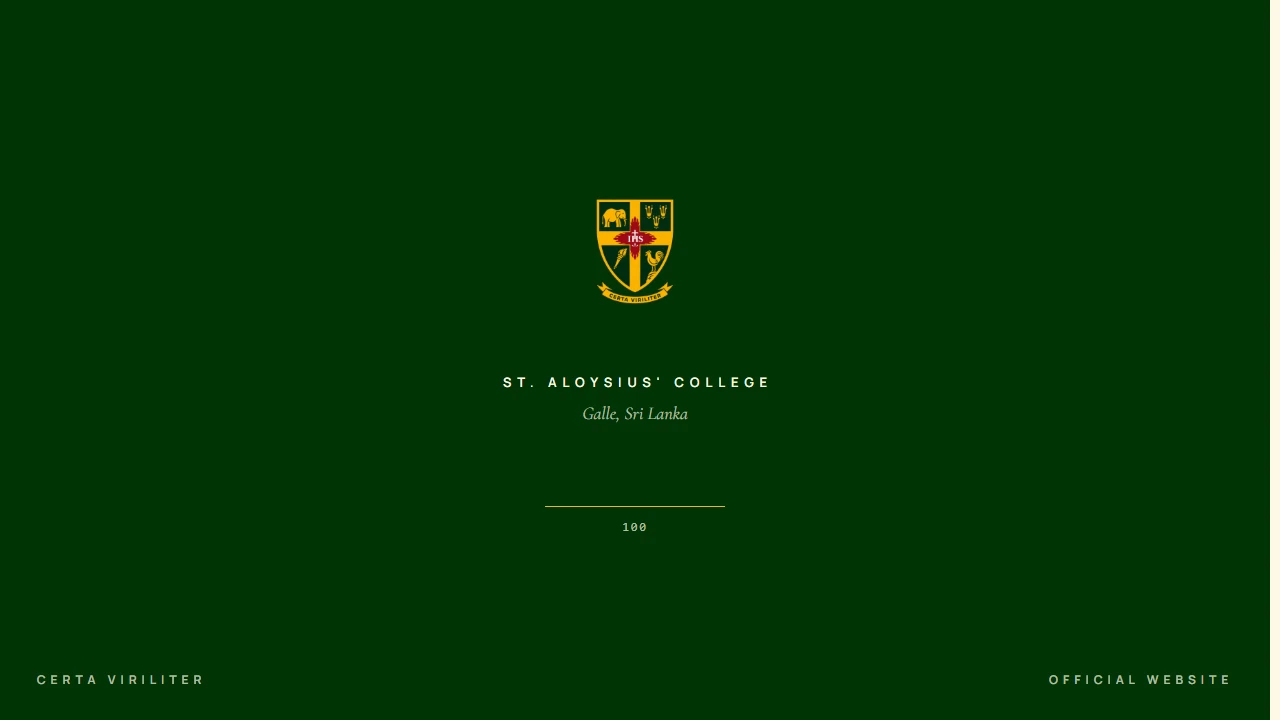
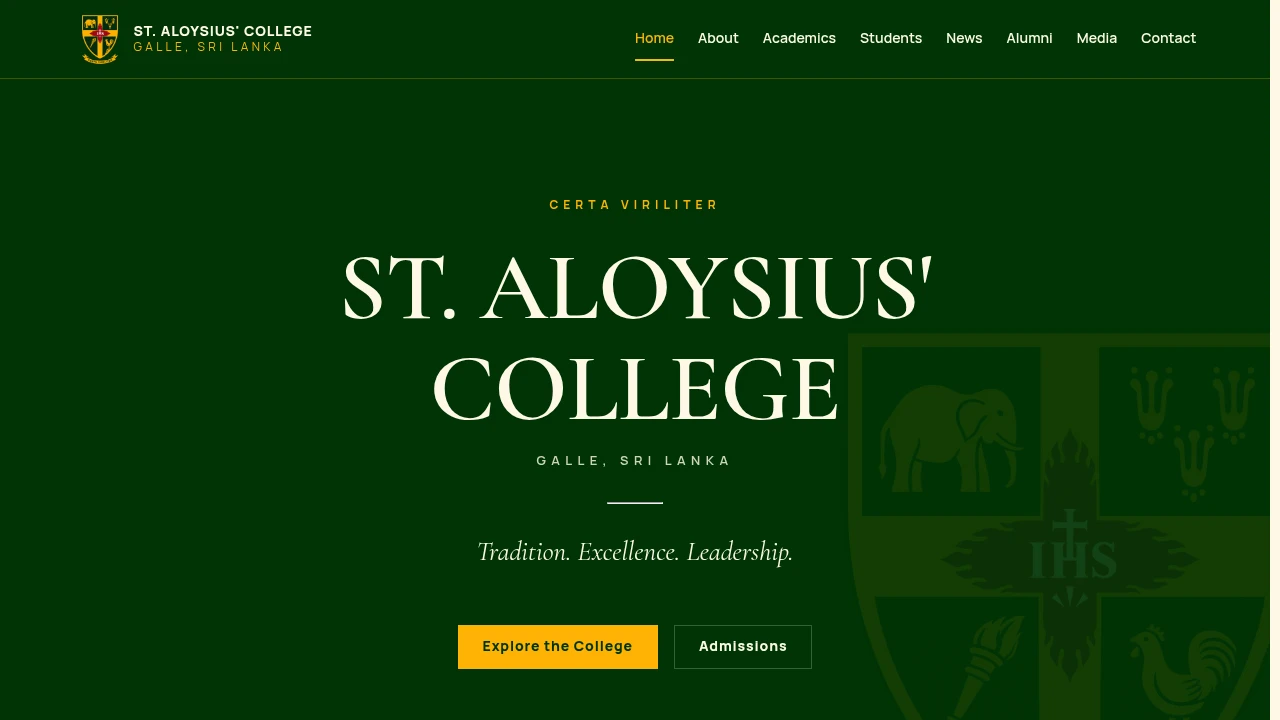
fix: regenerate project screenshots with correct URLs and load waits; wrap About status badges

diff --git a/src/data/projects.ts b/src/data/projects.ts
@@ -55,6 +55,7 @@ export const PROJECTS: Project[] = [
     year: "2025",
     tech: ["TypeScript", "React", "Tailwind CSS"],
     url: "https://lunabarro.com/",
+    captureDelayMs: 8000,
     image: "/projects/lunabarro.webp",
     requirements: [
       "Needed to read as a premium ceramics brand, not a generic storefront template",
@@ -73,7 +74,8 @@ export const PROJECTS: Project[] = [
     role: "Systems Engineer",
     year: "2025",
     tech: ["TypeScript", "React", "PostgreSQL"],
-    url: "http://aloysiuscollege.lk/",
+    url: "https://aloysiuscollege.lk/",
+    captureDelayMs: 10_000,
     image: "/projects/aloysiuscollege.webp",
     requirements: [
       "Admissions intake was running through paper forms and needed to move online",
@@ -149,7 +151,7 @@ export const PROJECTS: Project[] = [
     role: "Compiler Engineer",
     year: "2026",
     tech: ["C++20", "Python", "x64 Assembly"],
-    url: "https://project-lithon.github.io/Lithon/src/index.html",
+    url: "https://project-lithon.github.io/Lithon/",
     image: "/projects/lithon.webp",
     requirements: [
       "Python's readability without paying for boxed integers, refcounting and GC pauses",

diff --git a/src/components/sections/about-section.tsx b/src/components/sections/about-section.tsx
@@ -15,13 +15,20 @@ export const AboutSection = () => (
     <SectionHeading eyebrow="About" title="Who I am" />
 
     <Reveal className="flex max-w-2xl flex-col gap-4">
-      <AnimatedBadge
-        className="w-fit"
-        icon={<IconPlaneTilt className="size-3.5" />}
-        status="info"
-      >
-        Open to work · Sri Lanka (UTC+5:30) · replies within a day
-      </AnimatedBadge>
+      <div className="flex flex-wrap items-center gap-1.5">
+        <AnimatedBadge
+          icon={<IconPlaneTilt className="size-3.5" />}
+          status="info"
+        >
+          Open to work
+        </AnimatedBadge>
+        <AnimatedBadge status="info" showIcon={false}>
+          Sri Lanka (UTC+5:30)
+        </AnimatedBadge>
+        <AnimatedBadge status="info" showIcon={false}>
+          Replies within a day
+        </AnimatedBadge>
+      </div>
 
       <p className="text-foreground text-base leading-relaxed sm:text-lg">
         I&apos;m Tenuka, a website developer and systems engineer building fast,
